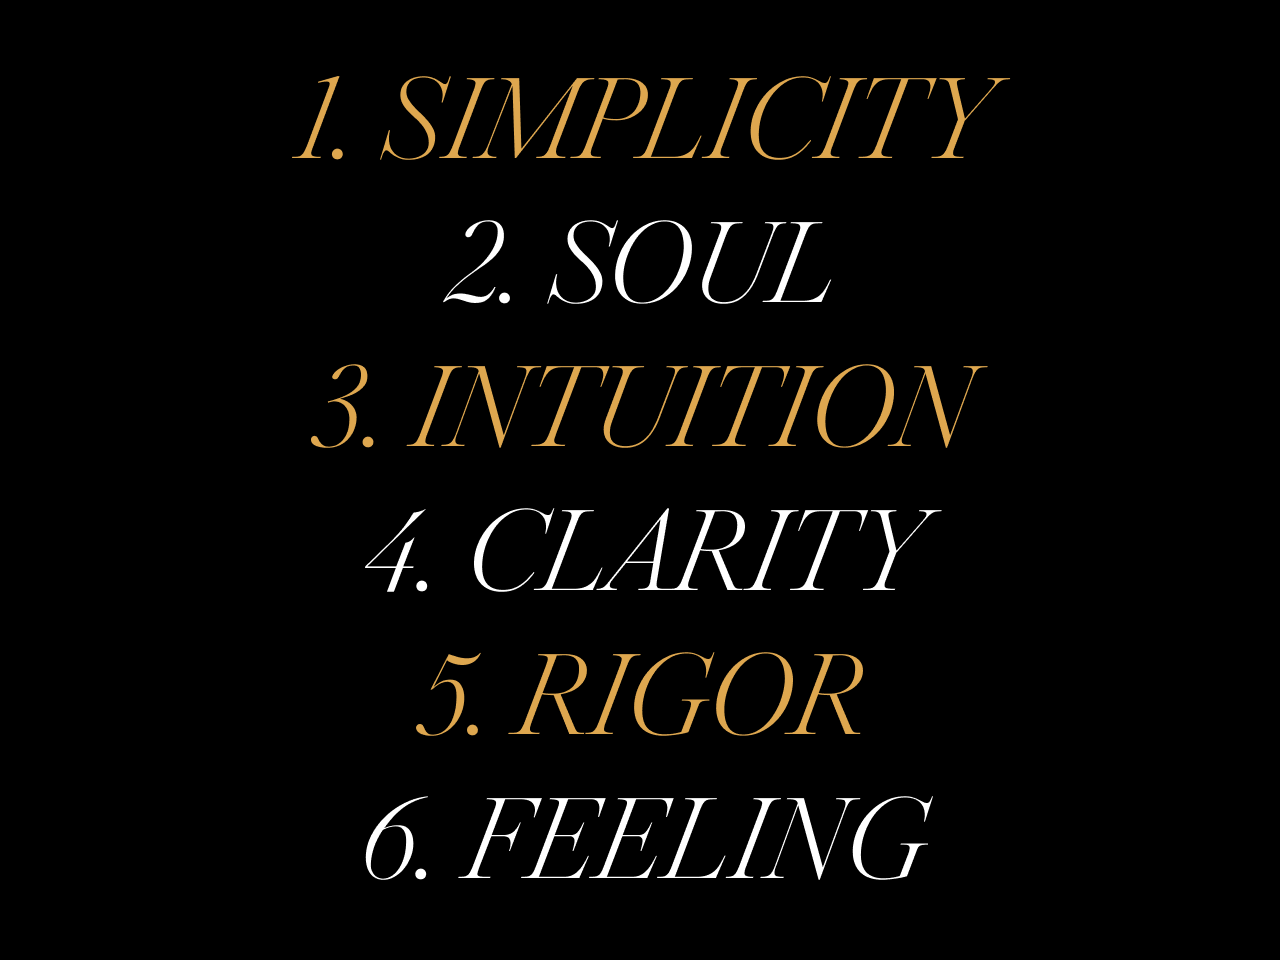
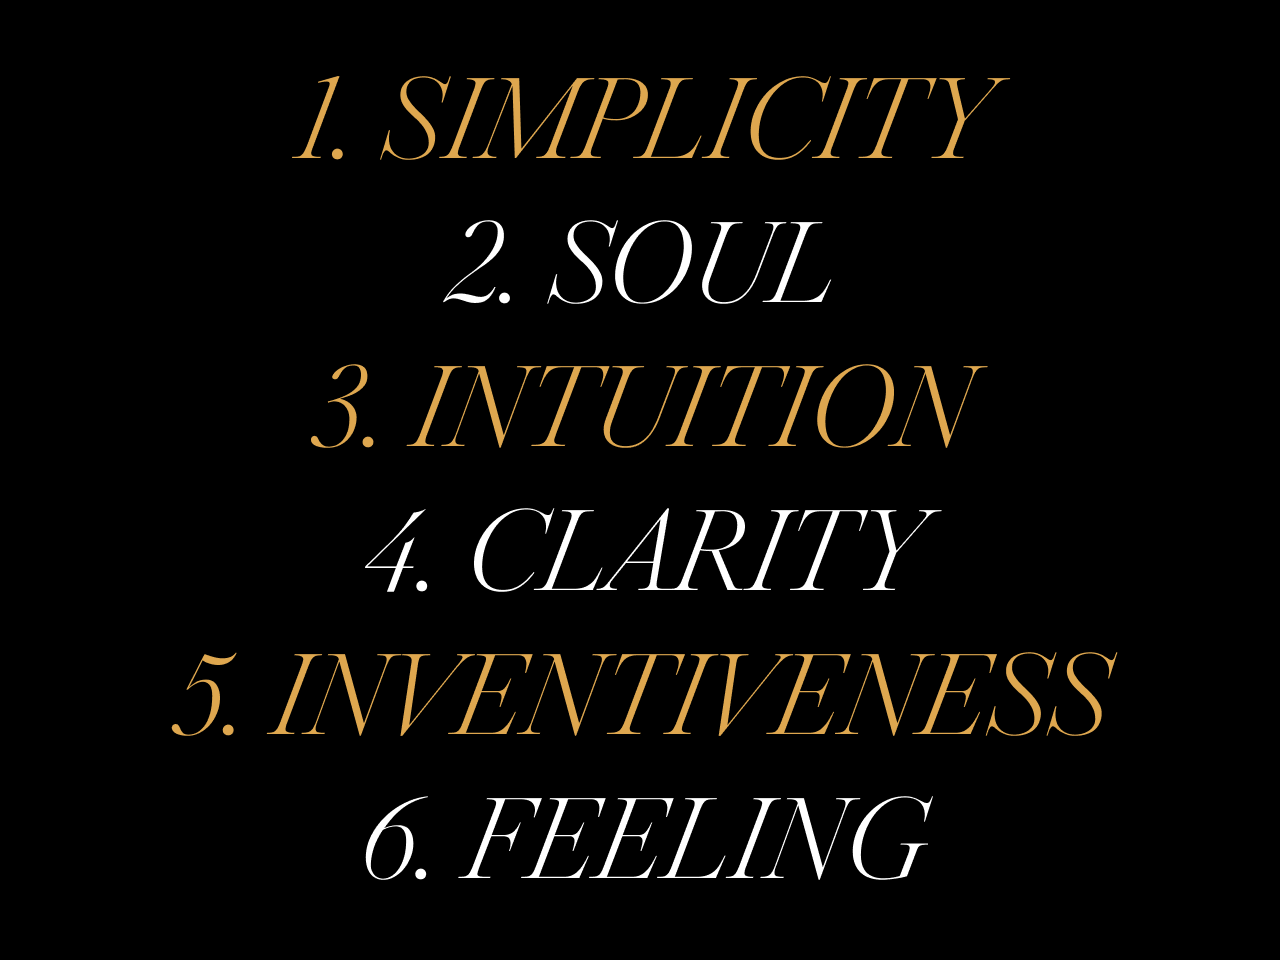
edit beliefs

Changed region(s): [[0.3125, 0.6562, 0.875, 0.7812], [0.2188, 0.6875, 0.2812, 0.7812], [0.125, 0.6562, 0.1875, 0.7812]]

diff --git a/beliefs.html b/beliefs.html
@@ -49,9 +49,11 @@
 
 				<li><strong>Paradigm-shifting products come from discovery via built intuition.</strong> Real paradigm-shifting products that alter or create new behaviors and sometimes new markets and business models come from curiosity and a strong point-of-view usually as a result of imagination and experience (or dissatisfaction from the status quo) combined with audacity. I also have a strong belief that the best insights are a result from being a student of history; in essence, <em>understanding the past in order to create the future</em>. The best description I could find for this is <a href="https://www.quora.com/q/hmsphvohvdpfszpi/Applied-Discovery-Presentation-from-Build-2013" target="_blank">Applied Discovery</a> as coined by David Cole. The best part is, they always seem obvious in hindsight: <em>“Why wasn’t it like this before?”</em></li>
 
-				<li><strong>The challenge of every product is to make it more robust and yet maintain its clarity.</strong> It's easy to add a new feature. The question is: can you expand the ability of a product <em>while</em> making it easier to use? While maintaining its elegance? While not losing its soul? Same goes if/when you have to switch a product’s vision moving forward due to where the world is going. Can you maintain clarity as you navigate a new reality? This is extremely delicate and requires a ruthless approach, discipline, balance, and commitment from everyone involved in building the product. And you do this by always keeping in mind the essence of what the product's core offering is.</li>
+				<li><strong>The challenge of every product is to make it more robust and yet maintain its clarity.</strong> It's easy to add a new feature. The question is: can you expand the ability of a product <em>while</em> making it easier to use? While maintaining its elegance? While not losing its soul? Same goes if/when you have to switch a product’s vision moving forward due to where the world is going. Can you maintain clarity as you navigate a new reality? This is extremely delicate and requires a ruthless approach, discipline, balance, patience, and commitment from everyone involved in building the product. And you do this by always keeping in mind the essence of what the product's core offering is.</li>
 
-				<li><strong>So much of building products is about being a rigorous detective.</strong> One of the best quotes from <em>Sherlock Holmes</em> is: “There is nothing more deceptive than an obvious fact.” As a product builder, you will never run out of potential problems or solutions coming from all over, especially ones that seem obvious. The test is in being relentless about all assumptions and being able to scrutinize everything with healthy skepticism. So much of it is also about figuring out “when” because timing is everything and resources aren’t infinite. Having the right judgment and being able to objectively rationalize decisions is imperative and one that can’t easily be trained.</li>
+				<!-- <li><strong>So much of building products is about being a rigorous detective.</strong> One of the best quotes from <em>Sherlock Holmes</em> is: “There is nothing more deceptive than an obvious fact.” As a product builder, you will never run out of potential problems or solutions coming from all over, especially ones that seem obvious. The test is in being relentless about all assumptions and being able to scrutinize everything with healthy skepticism. So much of it is also about figuring out “when” because timing is everything and resources aren’t infinite. Having the right judgment and being able to objectively rationalize decisions is imperative and one that can’t easily be trained.</li> -->
+
+				<li><strong>One can be a good product builder by moving the metrics but they can never be a <em>great</em> one without risk-taking and inventiveness.</strong> The very best dare to pusht the boundaries, and as a result, push the limits and capabilities of their organization, their people, their industry, even society as a whole. And this kind of innovation isn't just created via the product, but through the willingness to explore new business models, new processes, new ways of thinking. Intuition is one thing, but having the courage to do things others aren't is a completely separate skill, possibly even a personality trait driven by a natural and internal desire for creativity and excellence.</li>
 
 				<li><strong>The feeling should be the starting point and the ending point.</strong> This is often the most overlooked part in building products, yet arguably has the most lasting impact<a href="#section1" id="ref1"><sup>1</sup></a>. Product builders focus on "job-to-be-done" for people to use a product and the "hook" model in order to get them to keep using it. These are valuable frameworks in understanding the psychology behind products. But there is one thing that commands loyalty beyond simple rationale or compulsion, and that is <em>feeling</em>. What you want someone to feel should be the starting point of the product, and the outcome of what you ship should always seek to generate the feeling you are aiming for.</li>
 
